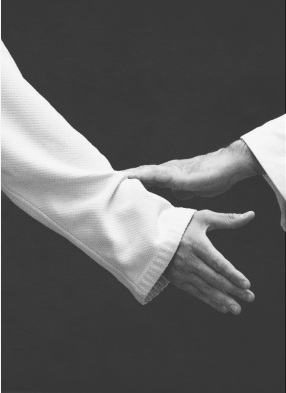
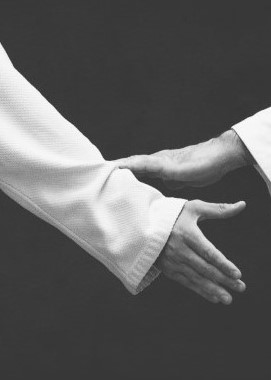
format mobile et tablette

diff --git a/src/styles/components/_article.scss b/src/styles/components/_article.scss
@@ -5,13 +5,14 @@
             margin: 0;
             background-position: center bottom;
             background-repeat: no-repeat;
-        
         }
         .wrap {
             padding: 25px 30px;
             color: $color-3;
             background-color: $color-2;
             opacity: 0.78;
+            border-top: solid 5px $color-1;
+
             h1 {
                 font-size: 18px;
                 letter-spacing: 1px;
@@ -27,29 +28,111 @@
                 font-size: 14px;
             }
         }
+}
+.morale {
+    display: flex;
+    flex-wrap: wrap;
+    justify-content: center;
+    align-items: center;
+    
+    h1 {
+        width: 100%;
     }
-    .morale {
-        display: flex;
-        flex-wrap: wrap;
-        h1 {
-            width: 100%;
-        }
-        p {
-            width: 100%;
-        }
-        ul {
+    p {
+        width: 100%;
+    }
+    ul {
             width: 45%;
-            margin-block-start: 0;
-            padding-inline-start: 0;
-            margin: 0 5px;
-            line-height: 2;
-            font-size: 14px;
-        }
+        margin-block-start: 0;
+        padding-inline-start: 0;
+        margin: 0 5px;
+        line-height: 2;
+        font-size: 14px;
     }
+}
+
 .Ai {
     figure {
         background-image: url(../../assets/articles/AiMobil.jpg);
         background-size: contain;
         height: 205px;
     }
+}
+
+.history {
+    .article {
+        h1 {
+            font-weight: 700;
+            color: $color-1;
+        }
+        li {
+            font-size: 14px;
+        }
+    }
+}
+
+.Hist1 {
+    figure {
+        background-image: url(../../assets/img-histoire/photoSenseiMobile.jpg);
+        background-size: contain;
+        background-position: center bottom;
+        height: 400px;
+    }
+}
+.Hist2 {
+    figure {
+        background-image: url(../../assets/img-histoire/physiqueMobile.png);
+        background-size: contain;
+        background-position: center bottom;
+        height: 415px;
+        width: 100%;
+
+    }
+}
+.Hist3 {
+    figure {
+        background-image: url(../../assets/img-histoire/TechniqueMobile.jpg);
+        background-size: contain;
+        background-position: center bottom;
+        height: 413px;
+    }
+}
+.Hist4 {
+    figure {
+        background-image: url(../../assets/img-histoire/MoraleMobile.jpg);
+        background-size: contain;
+        background-position: center bottom;
+        height: 420px;
+    }
+}
+.valeursEduc {
+    display: flex;
+    padding: 20px;
+    justify-content: center;
+    align-items: center;
+    flex-direction: column;
+    .imgValeursEduc {
+        height: 100px;
+    }
+    p {
+        text-align: center;
+        margin: 50px 20px;
+        color: $color-2;
+        span {
+            color: $color-1;
+            font-weight: 700;
+        }
+    }
+    
+}
+
+@media screen and (min-width: 750px) {
+    .article {
+        .wrap {
+            margin: 0 40px;
+        }
+}
+.valeursEduc p {
+    margin: 50px 40px;
+}
 }

diff --git a/src/components/articlesHistoire/HistoireWrapper1.js b/src/components/articlesHistoire/HistoireWrapper1.js
@@ -4,14 +4,14 @@ const HistoireWrapper1 = () => {
     return (
         <div className="wrap">
             <h1><span>Morihei UESHIBA</span>, Fondateur de l'Aïkido</h1>
-            <p>Il fut inspiré par les meilleurs maîtres d'arts martiaux du Japon de l'époque (écoles de JUJITSU, d'escrime traditionnelle).
-L'arrière-plan philosophique et/ou religieux (traditions Shinto, Zen, Tao) joua un rôle très important dans l'élaboration de cet art.
+            <p>Il fut inspiré par les meilleurs maîtres d'arts martiaux du Japon de l'époque (écoles de JUJITSU, d'escrime traditionnelle).<br />
+L'arrière-plan philosophique et/ou religieux (traditions Shinto, Zen, Tao) joua un rôle très important dans l'élaboration de cet <strong>art</strong>.<br /><br />
 
-A côté de ce retour aux sources de l'esprit traditionnel du samouraï, il réussit à ouvrir sa pratique à des notions plus modernes: recherche de la paix, de la fraternité, de l’harmonie.
-Il développa à partir de 1948 l'enseignement d'une discipline neuve et originale, qui commença dès 1950 à rayonner dans le monde entier, notamment en France.
+A côté de ce retour aux sources de l'esprit traditionnel du <strong>samouraï</strong>, il réussit à ouvrir sa pratique à des notions plus modernes: recherche de la paix, de la fraternité, de l’harmonie.
+Il développa à partir de 1948 l'<strong>enseignement d'une discipline neuve et originale</strong>, qui commença dès 1950 à rayonner dans le monde entier, notamment en France.<br /><br />
 
-Synthèse des arts martiaux japonais, l'Aikido inclut dans sa pratique l'étude  des atémis ( coups frappés ), des projections, des contrôles au sol, ainsi que l'étude des armes traditionnelles ( bâton long et court, sabre et poignard ).
-Il permet de se défendre à mains nues contre un ou plusieurs adversaires, armés ou non.</p>
+Synthèse des arts martiaux japonais, l'Aikido inclut dans sa pratique l'<strong>étude  des atémis</strong> ( coups frappés ), des <strong>projections</strong>, des <strong>contrôles au sol</strong>, ainsi que l'étude des <strong>armes traditionnelles</strong> ( bâton long et court, sabre et poignard ).<br />
+Il permet de <strong>se défendre à mains nues</strong> contre un ou plusieurs adversaires, armés ou non.</p>
         </div>
     );
 };

diff --git a/src/components/articlesHistoire/HistoireWrapper4.js b/src/components/articlesHistoire/HistoireWrapper4.js
@@ -4,7 +4,7 @@ const HistoireWrapper4 = () => {
     return (
         <div className="wrap morale">
             <h1>3) Morale</h1>
-            <p>La coordination physique et mentale conditionne la réalisation de chaque technique, provoque en même temps que la transformation physique externe du corps une métamorphose interne morale.<br /><br />Par le respect du bushido, code d’honneur et de morale traditionnelle des arts martiaux japonais et l’esprit particulier de non violence qui caractérise l’Aïkido, le pratiquant acquière les valeurs morales les plus élévées telles que :</p>
+            <p>La <strong>coordination physique</strong> et <strong>mentale</strong> conditionne la réalisation de chaque technique, <strong>provoque</strong> en même temps que la <strong>transformation physique</strong> externe du corps une <strong>métamorphose interne morale</strong>.<br /><br />Par le respect du <strong>bushido</strong>, code d’honneur et de morale traditionnelle des arts martiaux japonais et l’<strong>esprit</strong> particulier de <strong>non violence</strong> qui caractérise l’Aïkido, le pratiquant acquière les <strong>valeurs morales</strong> les plus élévées telles que :</p>
             <ul>
             <li> modestie</li>
             <li> honneur</li>

diff --git a/src/page/history.js b/src/page/history.js
@@ -2,6 +2,7 @@ import HistoireArticle1 from "../components/articlesHistoire/HistoireArt1";
 import HistoireArticle2 from "../components/articlesHistoire/HistoireArt2";
 import HistoireArticle3 from "../components/articlesHistoire/HistoireArt3";
 import HistoireArticle4 from "../components/articlesHistoire/HistoireArt4";
+import ValeursEduc from "../components/articlesHistoire/ValeursEduc";
 import HeaderHistory from "../components/HeaderHistory";
 
 const history = () =>{
@@ -9,6 +10,7 @@ const history = () =>{
         <div className="history">
             <HeaderHistory />
             <HistoireArticle1 />
+            <ValeursEduc />
             <HistoireArticle2 />
             <HistoireArticle3 />
             <HistoireArticle4 />

diff --git a/src/components/articlesHistoire/HistoireWrapper2.js b/src/components/articlesHistoire/HistoireWrapper2.js
@@ -4,7 +4,7 @@ const HistoireWrapper2 = () => {
     return (
         <div className="wrap">
             <h1>1) Physique</h1>
-            <p>La pratique de cette discipline améliore la santé par :<br />
+            <p>La pratique de cette discipline <strong>améliore la santé</strong> par :</p>
             <ul>
                 <li>le développement harmonieux de toutes les parties du corps</li>
                 <li>l’augmentation de la souplesse des articulations</li>
@@ -13,7 +13,6 @@ const HistoireWrapper2 = () => {
                 <li>la relaxation</li>
                 <li>l’endurance</li>
             </ul>
-            </p>
         </div>
     );
 };

diff --git a/src/components/articlesHistoire/HistoireWrapper3.js b/src/components/articlesHistoire/HistoireWrapper3.js
@@ -4,13 +4,13 @@ const HistoireWrapper3 = () => {
     return (
         <div className="wrap">
             <h1>2) Technique</h1>
-            <p>L’étude des mouvements impose :<br />
+            <p>L’<strong>étude des mouvements</strong> impose :</p>
             <ul> 
                 <li>l’étude du déséquilibre</li>
                 <li>la connaissance et l’utilisation de l’énergie</li>
                 <li>le développement des réflexes</li>
             </ul>
-            </p>
+            
         </div>
     );
 };

diff --git a/src/components/articlesHistoire/ValeursEduc.js b/src/components/articlesHistoire/ValeursEduc.js
@@ -1,0 +1,12 @@
+import React from 'react';
+
+const ValeursEduc = () => {
+    return (
+        <div className="valeursEduc">
+            <img className="imgValeursEduc" src="./img/valeur.svg" alt="Valeurs de l'Aïkido"></img>
+            <p>« Parfaite école d’enseignement, d’expérimentation et de développement des <span>valeurs morales</span> et <span>physiques</span> de la personne, l’Aïkido représente une <span>méthode d’éducation complète</span>»</p>
+        </div>
+    );
+};
+
+export default ValeursEduc;

diff --git a/src/components/articlesHistoire/HistoireArt1.js b/src/components/articlesHistoire/HistoireArt1.js
@@ -1,11 +1,11 @@
 import React from 'react';
-// import Figure from './Figure';
+import FigureHistoire from './FigureHistoire';
 import HistoireWrapper1 from './HistoireWrapper1';
 
 const HistoireArticle1 = () => {
     return (
         <div className='article Hist1'>
-            {/* <Figure /> */}
+            <FigureHistoire />
             <HistoireWrapper1 />
         </div>
     );

diff --git a/src/components/articlesHistoire/HistoireArt2.js b/src/components/articlesHistoire/HistoireArt2.js
@@ -1,11 +1,11 @@
 import React from 'react';
-// import Figure from './Figure';
+import FigureHistoire from './FigureHistoire';
 import HistoireWrapper2 from './HistoireWrapper2';
 
 const HistoireArticle2 = () => {
     return (
         <div className='article Hist2'>
-            {/* <Figure /> */}
+            <FigureHistoire />
             <HistoireWrapper2 />
         </div>
     );

diff --git a/src/components/articlesHistoire/HistoireArt3.js b/src/components/articlesHistoire/HistoireArt3.js
@@ -1,11 +1,11 @@
 import React from 'react';
-// import Figure from './Figure';
+import FigureHistoire from './FigureHistoire';
 import HistoireWrapper3 from './HistoireWrapper3';
 
 const HistoireArticle3 = () => {
     return (
         <div className='article Hist3'>
-            {/* <Figure /> */}
+            <FigureHistoire />
             <HistoireWrapper3 />
         </div>
     );

diff --git a/src/components/articlesHistoire/HistoireArt4.js b/src/components/articlesHistoire/HistoireArt4.js
@@ -1,11 +1,11 @@
 import React from 'react';
-// import Figure from './Figure';
+import FigureHistoire from './FigureHistoire';
 import HistoireWrapper4 from './HistoireWrapper4';
 
 const HistoireArticle4 = () => {
     return (
         <div className='article Hist4'>
-            {/* <Figure /> */}
+            <FigureHistoire />
             <HistoireWrapper4 />
         </div>
     );

diff --git a/src/components/LogoPages.js b/src/components/LogoPages.js
@@ -3,7 +3,7 @@ import React from 'react';
 const LogoPages = () => {
     return (
         <div>
-            <img className='logosPages' src='./img/logoMobileHeader.png' alt="logo" />
+            <img className='logosPages' src='./img/logoHeaderPages.svg' alt="logo" />
         </div>
     );
 };
